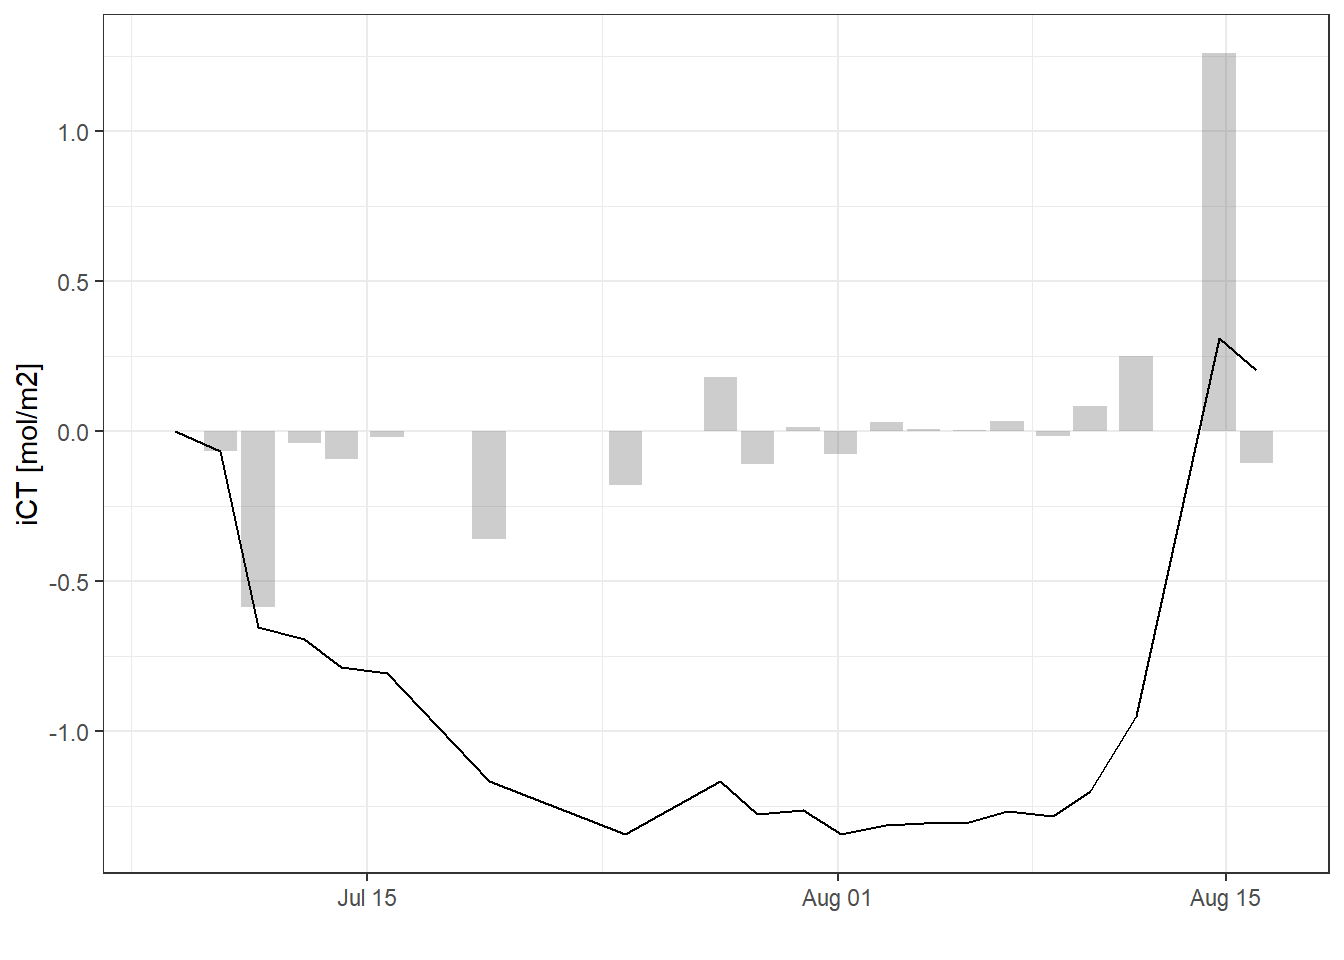
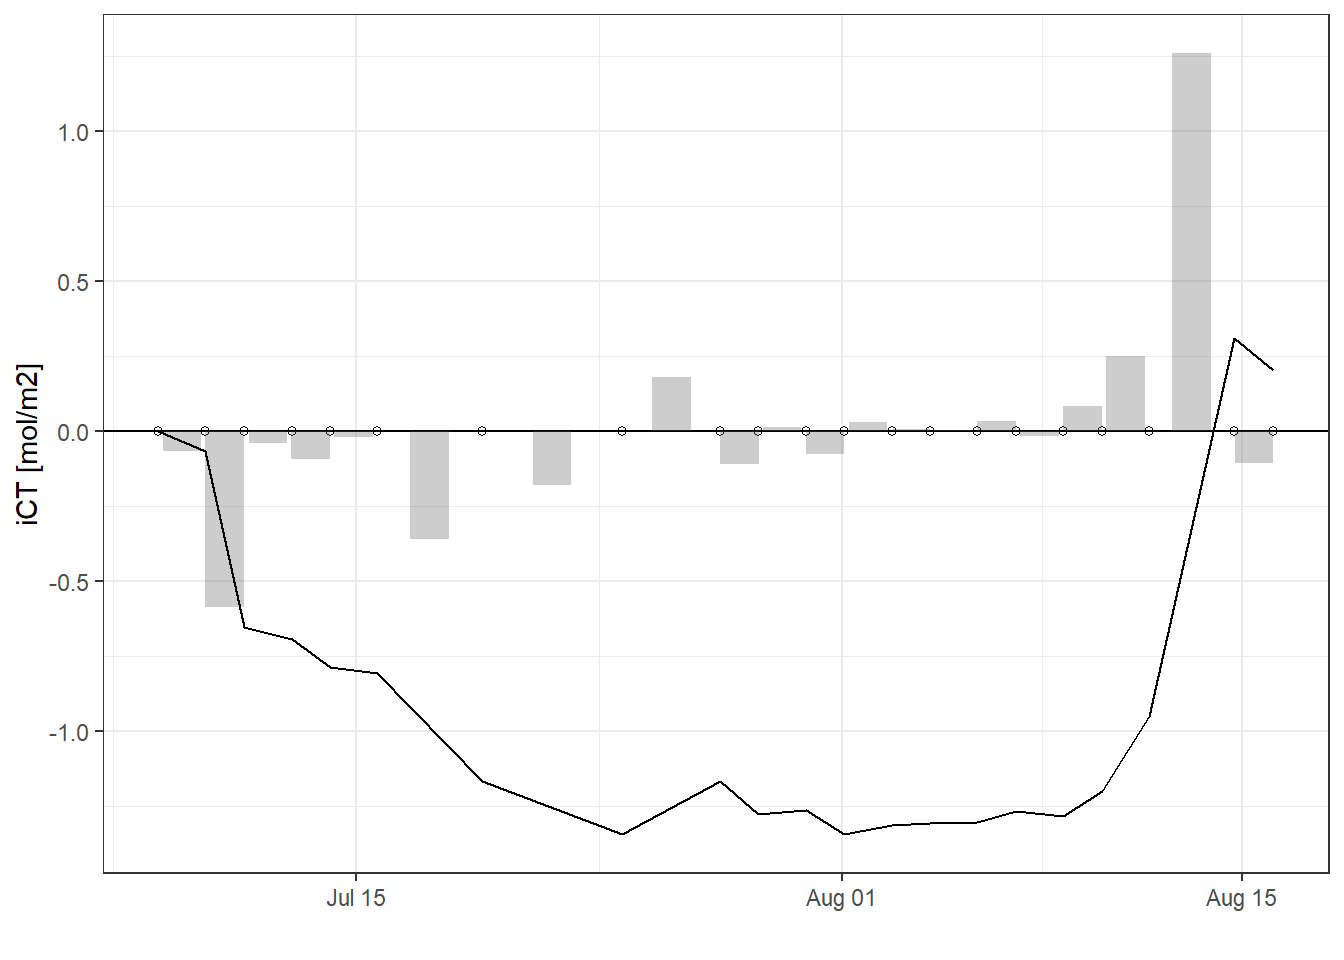
Build site.

diff --git a/docs/Finnmaid+GETM.html b/docs/Finnmaid+GETM.html
@@ -554,10 +554,10 @@ This reproducible <a href="http://rmarkdown.rstudio.com">R Markdown</a> analysis
 <div class="panel panel-default">
 <div class="panel-heading">
 <p class="panel-title">
-<a data-toggle="collapse" data-parent="#workflowr-checks" href="#strongRepositoryversionstrongahrefhttpsgithubcomjensdanielmuellerBloomSailtree093e4fd9aa0f7a4f77b11ecc02fde00773d4b97ctargetblank093e4fda"> <span class="glyphicon glyphicon-ok text-success" aria-hidden="true"></span> <strong>Repository version:</strong> <a href="https://github.com/jens-daniel-mueller/BloomSail/tree/093e4fd9aa0f7a4f77b11ecc02fde00773d4b97c" target="_blank">093e4fd</a> </a>
+<a data-toggle="collapse" data-parent="#workflowr-checks" href="#strongRepositoryversionstrongahrefhttpsgithubcomjensdanielmuellerBloomSailtreeba45c29ca8854c0598abb7745ce2f8d78a00137ftargetblankba45c29a"> <span class="glyphicon glyphicon-ok text-success" aria-hidden="true"></span> <strong>Repository version:</strong> <a href="https://github.com/jens-daniel-mueller/BloomSail/tree/ba45c29ca8854c0598abb7745ce2f8d78a00137f" target="_blank">ba45c29</a> </a>
 </p>
 </div>
[2 lines of base64/hex data omitted]
 <div class="panel-body">
 <p>
 Great! You are using Git for version control. Tracking code development and connecting the code version to the results is critical for reproducibility. The version displayed above was the version of the Git repository at the time these results were generated. <br><br> Note that you need to be careful to ensure that all relevant files for the analysis have been committed to Git prior to generating the results (you can use <code>wflow_publish</code> or <code>wflow_git_commit</code>). workflowr only checks the R Markdown file, but you know if there are other scripts or data files that it depends on. Below is the status of the Git repository when the results were generated:
@@ -1207,8 +1207,9 @@ fm_gt_3d &lt;- fm_gt_3d %&gt;%
 <pre class="r"><code>fm_gt_3d &lt;- fm_gt_3d %&gt;% 
   group_by(dep) %&gt;% 
   arrange(date_time_ID) %&gt;% 
-  mutate(time_diff  = as.numeric(date_time_ID - lag(date_time_ID)),
-         CT_diff_daily = CT_diff / time_diff,
+  mutate(date_time_ID_diff = as.numeric(date_time_ID - lag(date_time_ID)),
+         date_time_ID_ref  = date_time_ID - (date_time_ID - lag(date_time_ID))/2,
+         CT_diff_daily = CT_diff / date_time_ID_diff,
          CT_cum = cumsum(replace_na(CT_diff, 0))) %&gt;% 
   ungroup()</code></pre>
 </div>
@@ -1248,7 +1249,7 @@ fm_gt_3d &lt;- fm_gt_3d %&gt;%
 fm_gt_3d %&gt;%
   filter(dep &lt; 26) %&gt;% 
   ggplot()+
-  geom_contour_fill(aes(x=date_time_ID, y=dep, z=CT_diff_daily),
+  geom_contour_fill(aes(x=date_time_ID_ref, y=dep, z=CT_diff_daily),
                     breaks = MakeBreaks(bin_CT),
                     col=&quot;black&quot;)+
   geom_point(aes(x=date_time_ID, y=c(25)), size=3, shape=24, fill=&quot;white&quot;)+
@@ -1294,7 +1295,7 @@ rm(bin_CT)</code></pre>
 <p>Total incremental and cumulative C<sub>T</sub> changes inbetween cruise dates were calculated for the upper 10 m of the water body.</p>
 <pre class="r"><code>iCT_dT &lt;- fm_gt_3d %&gt;% 
   filter(dep &lt; 10) %&gt;% 
-  group_by(date_time_ID) %&gt;%
+  group_by(date_time_ID, date_time_ID_ref) %&gt;%
   summarise(CT_i_diff = sum(CT_diff)/1000,
             CT_i_cum = sum(CT_cum)/1000) %&gt;% 
   ungroup()
@@ -1302,8 +1303,9 @@ rm(bin_CT)</code></pre>
 
 iCT_dT %&gt;% 
   ggplot()+
-  #geom_point(data = cruise_dates, aes(date_time_ID, 0), shape=21)+
-  geom_col(aes(date_time_ID, CT_i_diff),
+  geom_hline(yintercept = 0)+
+  geom_point(aes(date_time_ID,  0), shape=21)+
+  geom_col(aes(date_time_ID_ref, CT_i_diff),
            position = &quot;dodge&quot;, alpha=0.3)+
   geom_line(aes(date_time_ID, CT_i_cum))+
   scale_color_viridis_d(name=&quot;Depth limit (m)&quot;)+
